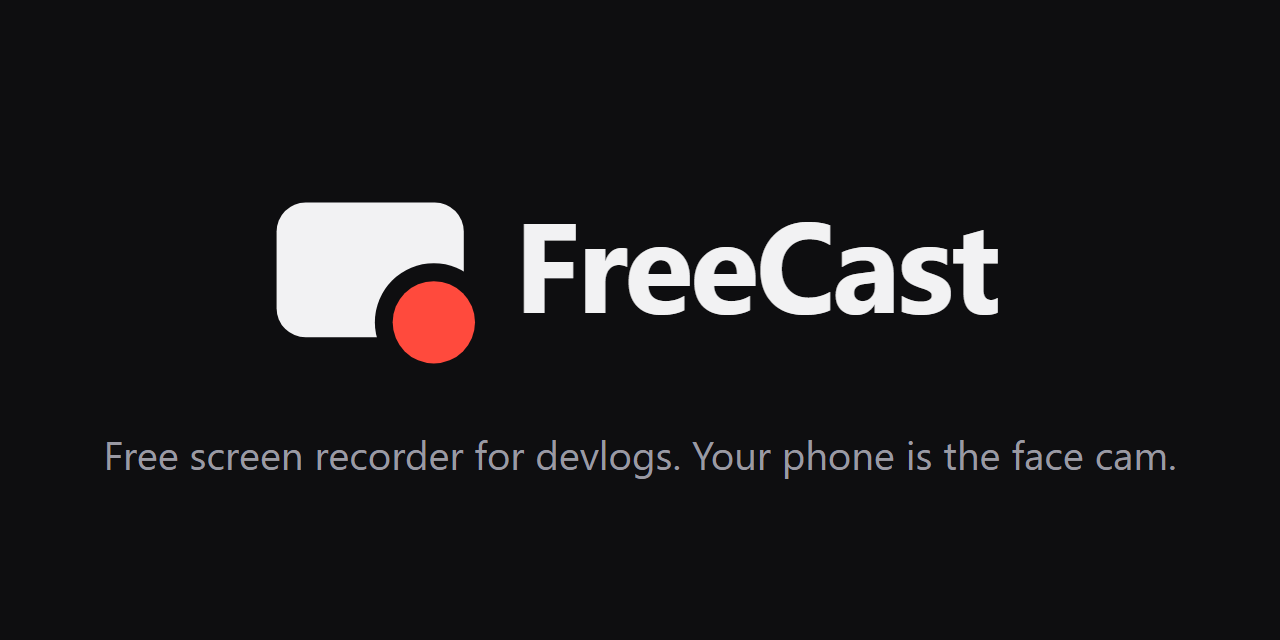
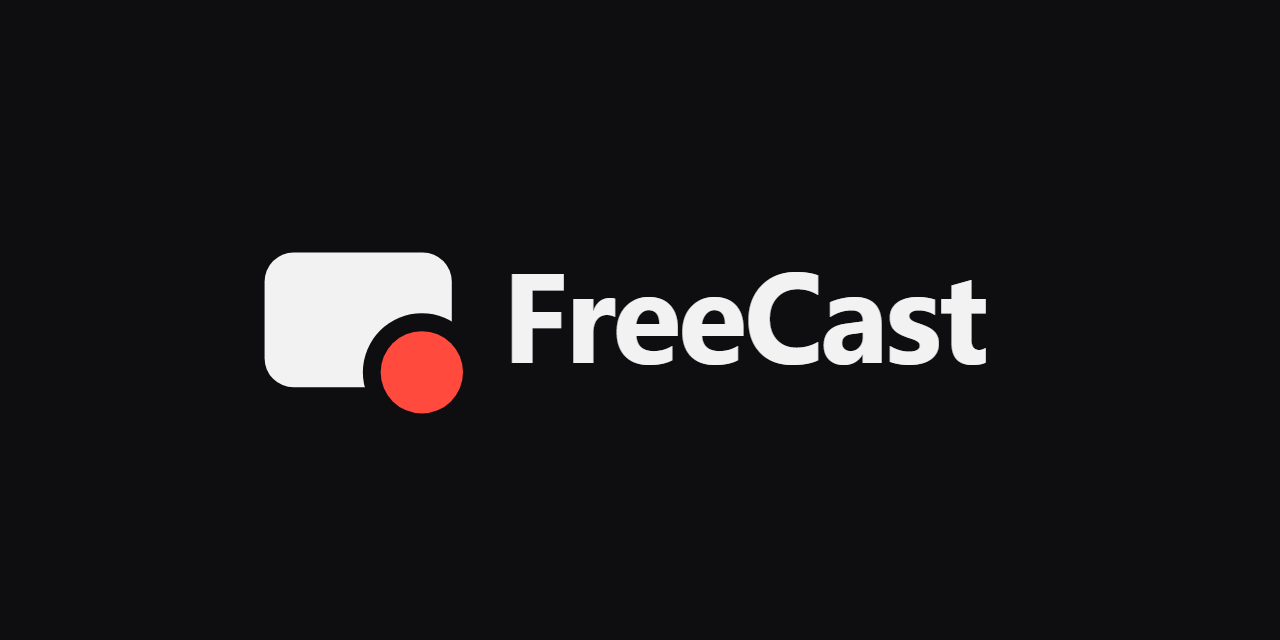
Drop the tagline from the social preview

Changed region(s): [[0.1875, 0.3125, 0.7812, 0.6562], [0.0625, 0.6875, 0.9062, 0.75]]

diff --git a/JOURNAL.md b/JOURNAL.md
@@ -1,6 +1,6 @@
 # Logo, favicon and GitHub assets - Sunday Oct 11
 
-*Time worked: 3m (3:58 PM to 4:01 PM)*
+*Time worked: 4m (3:58 PM to 4:02 PM)*
 
 ## Timeline
 
@@ -38,10 +38,17 @@ Looked at the rendered icon, both lockups, the 32 px favicon enlarged, the socia
 the app header from a selftest screenshot. Selftest still passes. Not looked at: the taskbar
 icon and the phone's home-screen icon.
 
+**4:02 PM - "Why big white box and counting numbers" and "remove that subtitle, it sucks ass."**
+The white box was the selftest's on-screen counter, flashing up on his monitor each time the
+selftest ran. Told him what it was; warn before running the selftest while he is at the PC.
+The subtitle was the one-line pitch under the lockup on the social preview. Removed; the
+preview is now the lockup alone, centred.
+
 ## Decisions
 
 | Decision | Rationale |
 |---|---|
+| No tagline on the social preview | Baron's call; the lockup stands on its own |
 | One mark, two colours, no gradients | Has to read at 16 px and match the flat UI |
 | SVG is the source, PNG and ICO are built | One place to change the logo; `npx electron tools/build-icons.js` rebuilds everything |
 | Built images are committed | The app, the phone page and the README need them without a build step |
